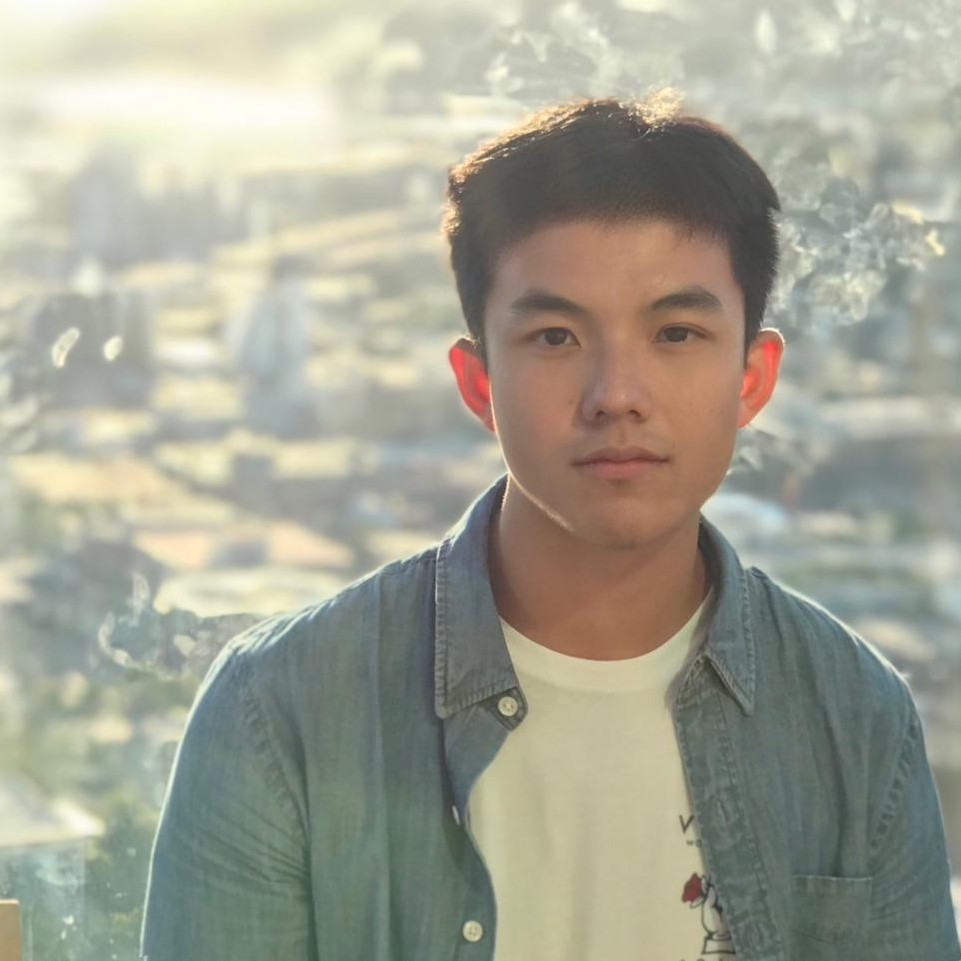
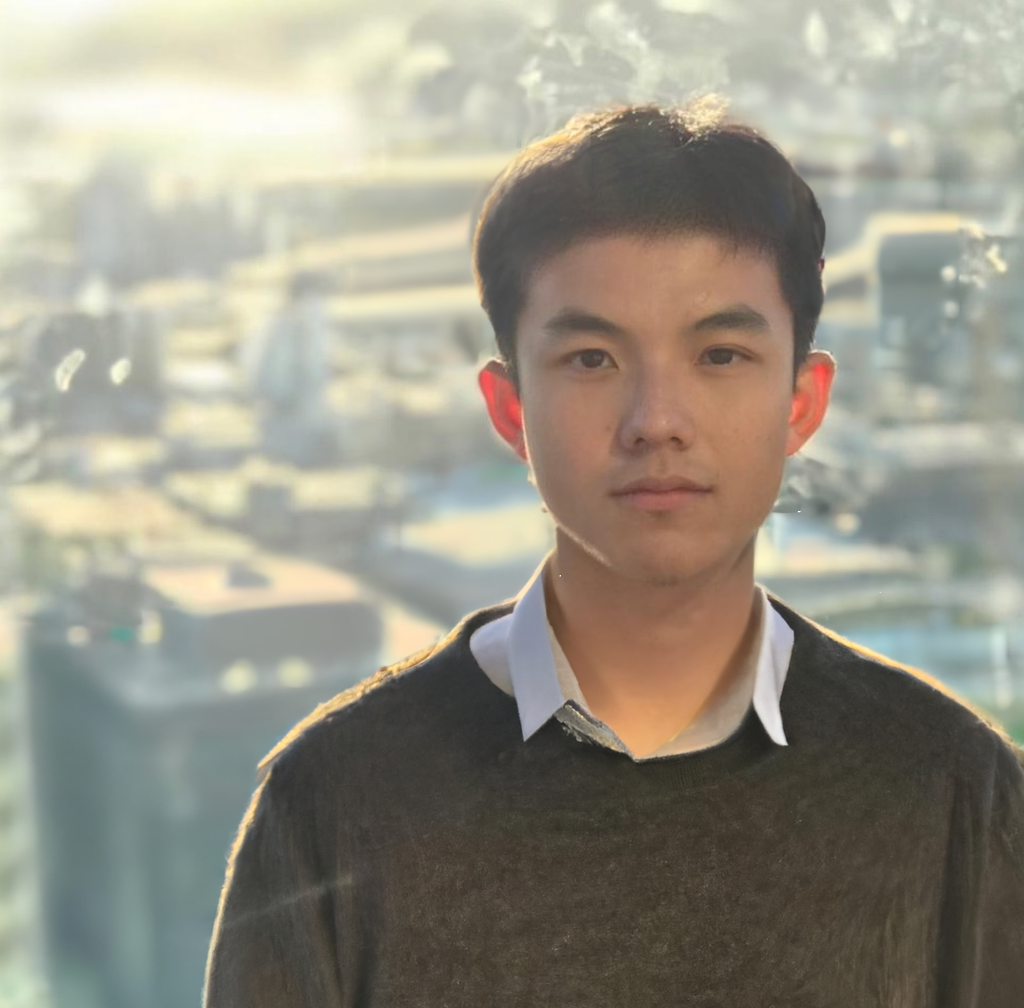
photo update

diff --git a/components/About.tsx b/components/About.tsx
@@ -7,6 +7,11 @@ function About() {
       className="flex flex-col relative h-screen gap-12 items-center justify-center text-left py-44
     lg:grid lg:grid-cols-5 px-80 lg:px-48 "
     >
+      <div className="col-span-2 flex relative justify-center text-center w-[500px] h-[500px] rounded-full overflow-hidden
+  
+      ">
+        <Image src="/about.png" alt="about me pic" fill />
+      </div>
       <div className="col-span-3">
         <div className="text-6xl mb-10">About me</div>
         <div className="flex flex-col gap-8 text-2xl">
@@ -18,12 +23,11 @@ function About() {
           </span>
           <span>
             I am currently looking for a Singapore-based developer role.{' '}
-            <span className="decoration-[#F7AB0A]/50 dark:decoration-[#3b82f680] underline font-bold">Hire me?</span>
+            <span className="decoration-[#F7AB0A]/50 dark:decoration-[#3b82f680] underline font-bold">
+              Hire me?
+            </span>
           </span>
         </div>
-      </div>
-      <div className="flex relative justify-center text-center w-[500px] h-[500px]">
-        <Image src="/about.png" alt="about me pic" fill />
       </div>
     </div>
   );

diff --git a/components/Hero.tsx b/components/Hero.tsx
@@ -75,9 +75,9 @@ function Hero() {
           </animated.div>
         ))}
       </div> */}
-      <div className="flex justify-center items-center text-4xl md:text-6xl lg:text-8xl font-CircularStd leading-tight">
+      <div className="flex justify-center items-center text-4xl md:text-6xl lg:text-7xl font-CircularStd leading-tight">
         <h2>
-          Hi, Im <span className="decoration-[#F7AB0A]/50 dark:decoration-[#3b82f680] underline">WAYNN</span>
+          Hi, Im <span className="decoration-[#F7AB0A]/50 dark:decoration-[#3b82f680] underline">WEIPENG</span>
           <br />
           Software Developer
         </h2>
